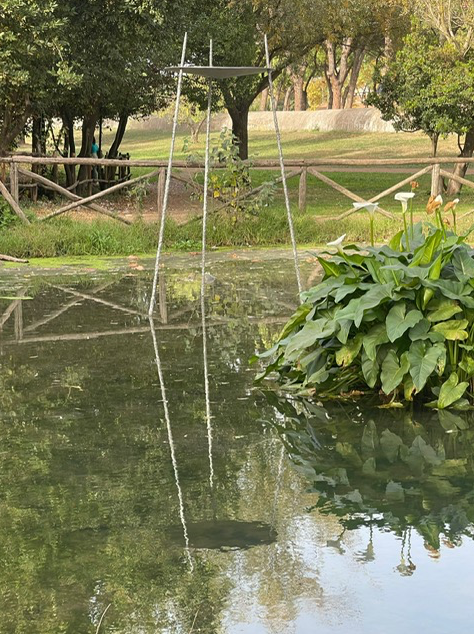
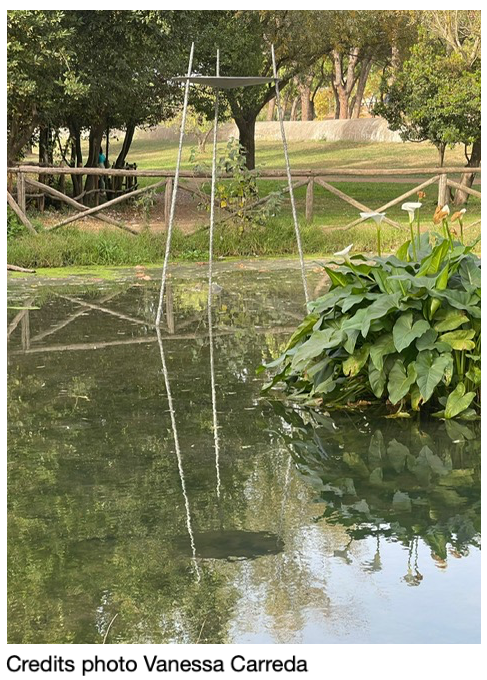
ajout 2 photos fontama brumes + credits

diff --git a/src/pages/ProgNovember/ProgNovember.js b/src/pages/ProgNovember/ProgNovember.js
@@ -456,6 +456,8 @@ const ProgNovember = () => {
   const imagesAssenza = [
     require("../../assets/images/FontanaBrume1.png"),
     require("../../assets/images/FontanaBrume2.png"),
+    require("../../assets/images/FontanaBrume3.png"),
+    require("../../assets/images/FontanaBrume4.png"),
   ];
   const imagesPirri = [
     require("../../assets/images/InstallPirri1.png"),
